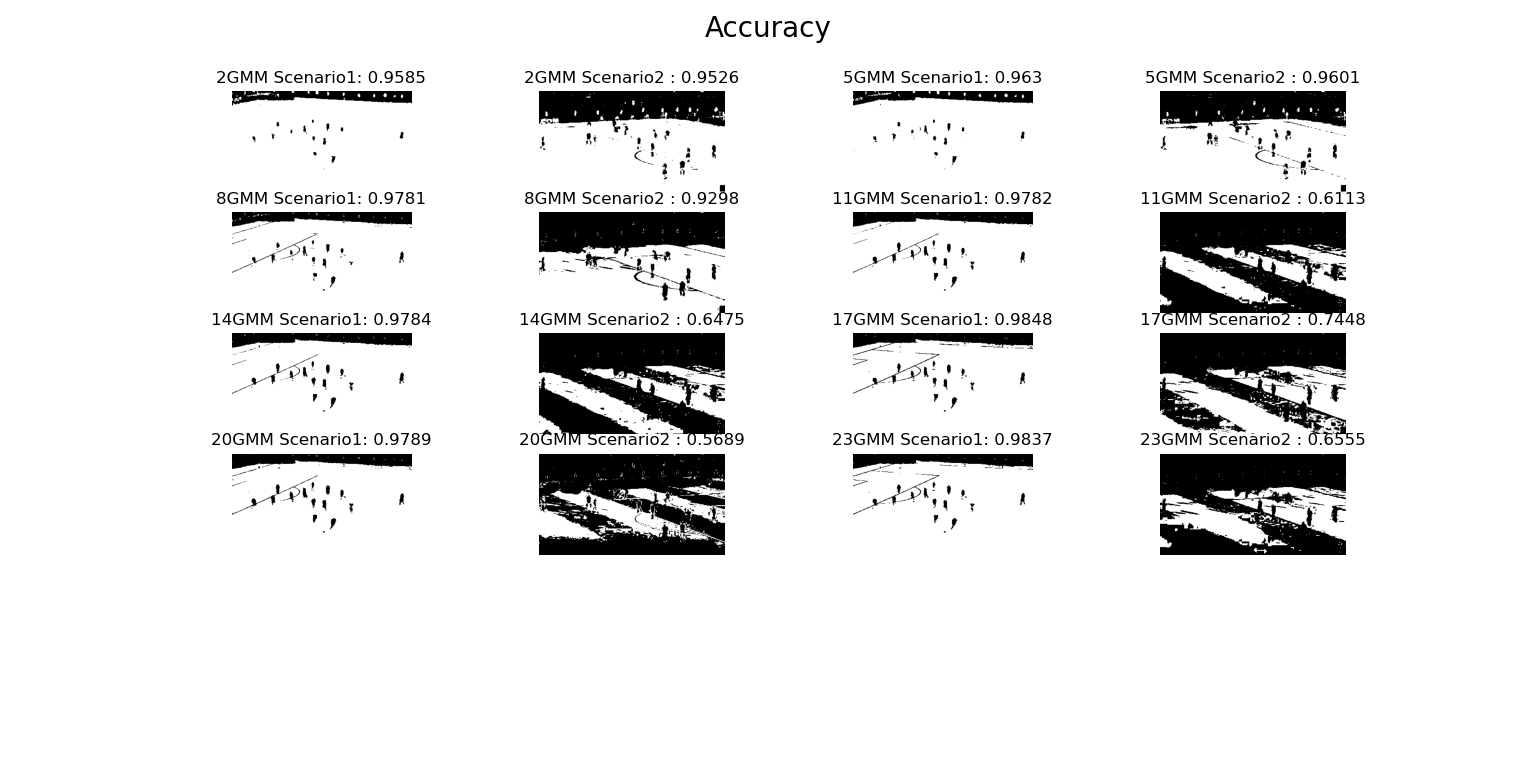
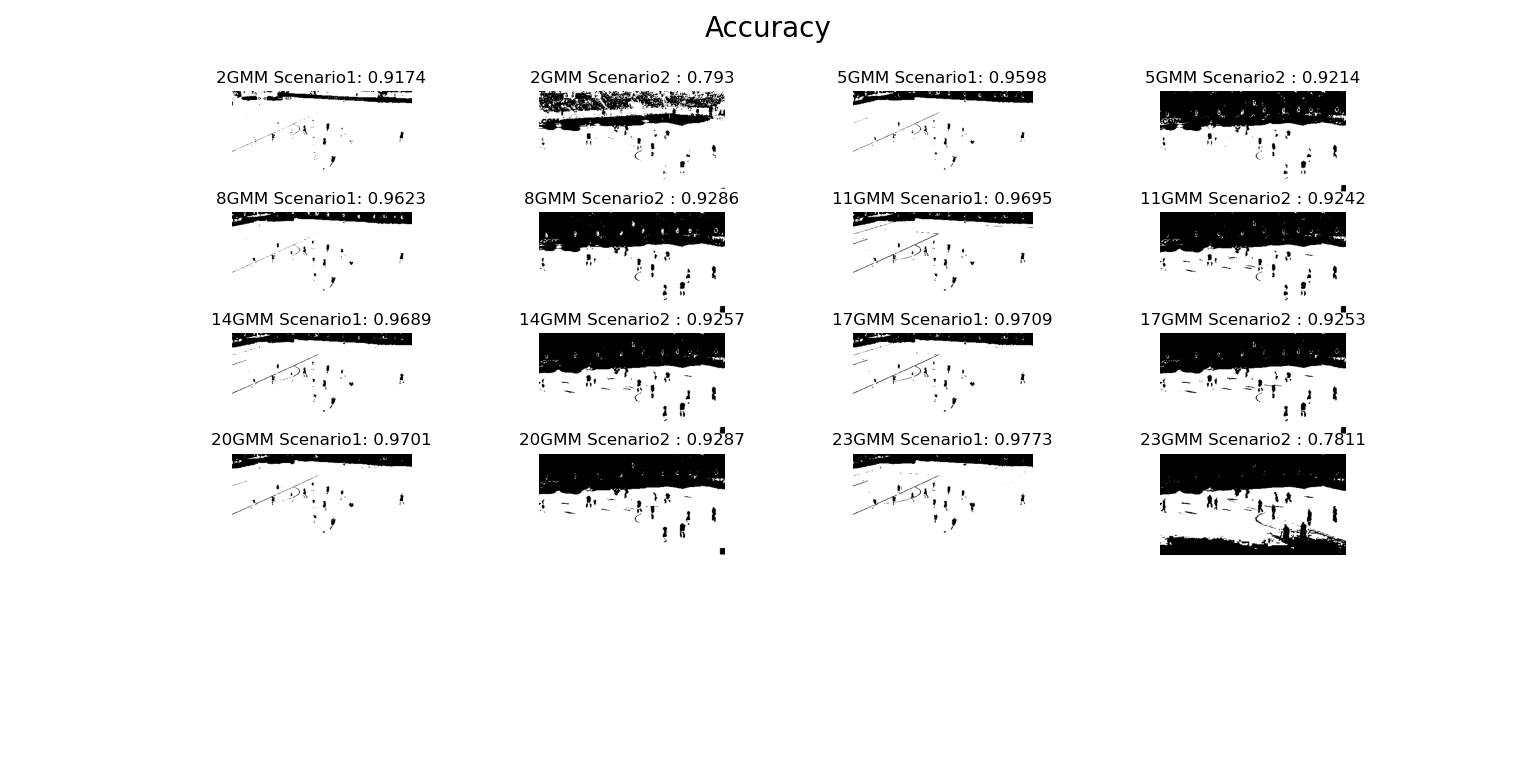
finish hw4

diff --git a/scenario3.py b/scenario3.py
@@ -15,14 +15,13 @@ img2 = cv2.imread('soccer2.jpg')
 img1_resize = img1.reshape((-1, 3))
 img2_resize = img2.reshape((-1, 3))
 two_image = np.concatenate((img1_resize, img2_resize))
-
 fig = plt.figure(figsize=(40, 20))
 fig.suptitle('Scenario3 Accuracy', fontsize=20)
 gaussian = [2, 5, 8, 11, 14, 17, 20, 23]
 
 for i in range(len(gaussian)):
     n = gaussian[i]
-    gmm_model = GMM(n_components=n, covariance_type='tied').fit(two_image)
+    gmm_model = GMM(n_components=n, covariance_type='tied').fit(img1_resize)
     gmm_labels1 = gmm_model.predict(img1_resize)
     gmm_labels2 = gmm_model.predict(img2_resize)
 

diff --git a/scenario1.py b/scenario1.py
@@ -21,7 +21,7 @@ gaussian = [2, 5, 8, 11, 14, 17, 20, 23]
 
 for i in range(len(gaussian)):
     n = gaussian[i]
-    gmm_model = GMM(n_components=n, covariance_type='tied').fit(img1_resize)
+    gmm_model = GMM(n_components=n, covariance_type='tied').fit(img2_resize)
     gmm_labels1 = gmm_model.predict(img1_resize)
 
     # choose the gaussian that represent the green ground

diff --git a/F74071263_倪皓城_HW4.md b/F74071263_倪皓城_HW4.md
@@ -15,6 +15,17 @@ python scenario3.py
 # Introduction
 ## Algorithm
 透過sklearn的 Gaussian Miaxture library完成，首先讀取image並且丟進model training，因為作業要求判別場地或非場地，所以當 mixture component設定>2時將model回傳的陣列出現最多次的component設為1其餘設為0，最後再同乘255變成mask形式去比對accuracy。
-## Different Number of Mixture Component
-![](https://i.imgur.com/79BT4U6.png =400x)
-![](./scenario3.png)
+## Accuracy
+<img src="./scenario1.png" width="600" height="400" />
+<img src="./scenario3.png" width="600" height="400" />
+
+### Different Mixture Component
+透過上面兩張實驗結果可以看出soccer1幾乎不受影響，soccer2一開始accuracy有上升趨勢，但隨者components上升accuracy也急遽下降。
+
+比較soccer1與soccer2，推測是因為soccer2拍到的觀眾席顏色比較混雜導致一開始accuracy不理想，而soccer1只有場地與球員image segamentation會比較好
+<img src="./assume.jpg" width="600" height="400" />
+
+### Different Scenario
+上面兩張實驗圖我們單看GMM=2時，可看出因為model是使用soccer1進行建構，所以測試soccer2(Scenario2) accuracy很差
+
+看到 Scenaro3因為model使用soccer1與soccer2進行建構，所以 測試soccer2時的accuracy比較佳
